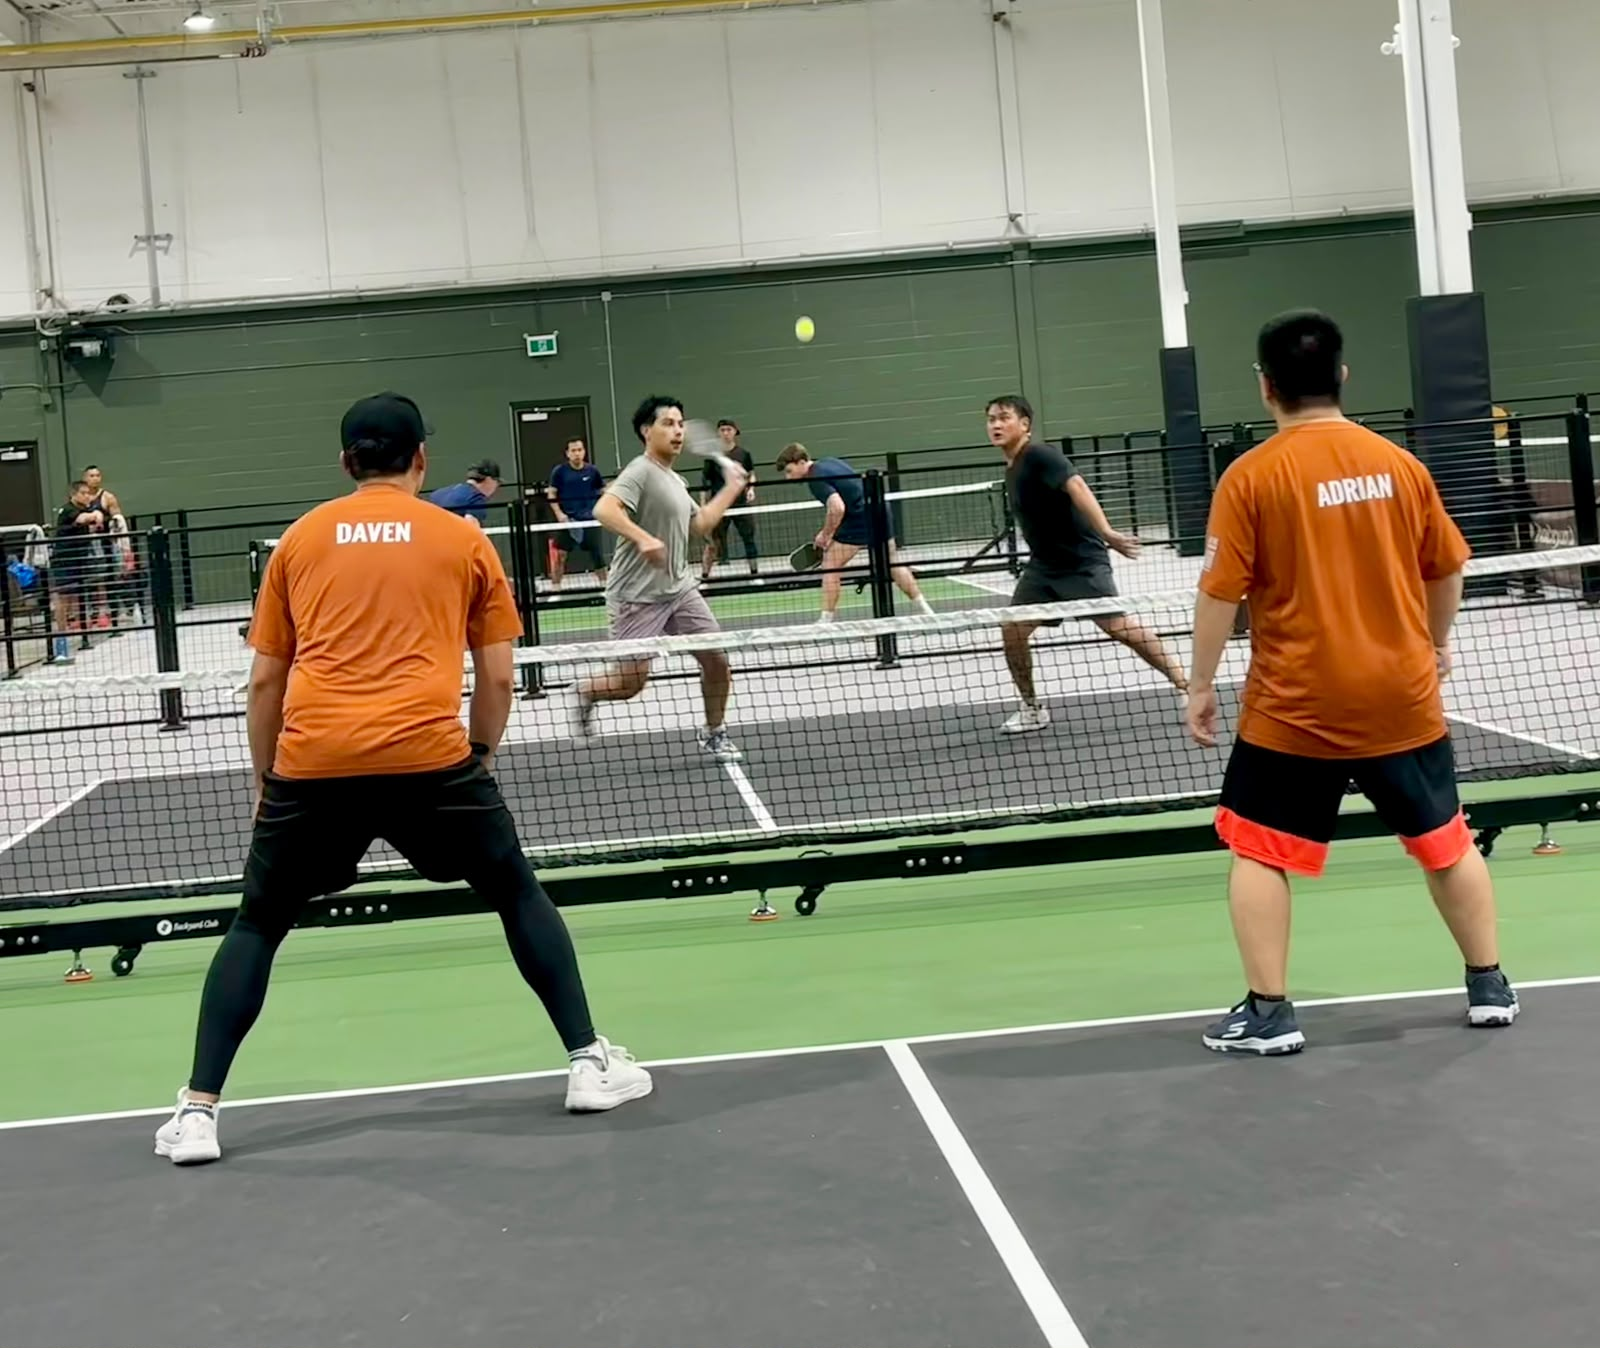
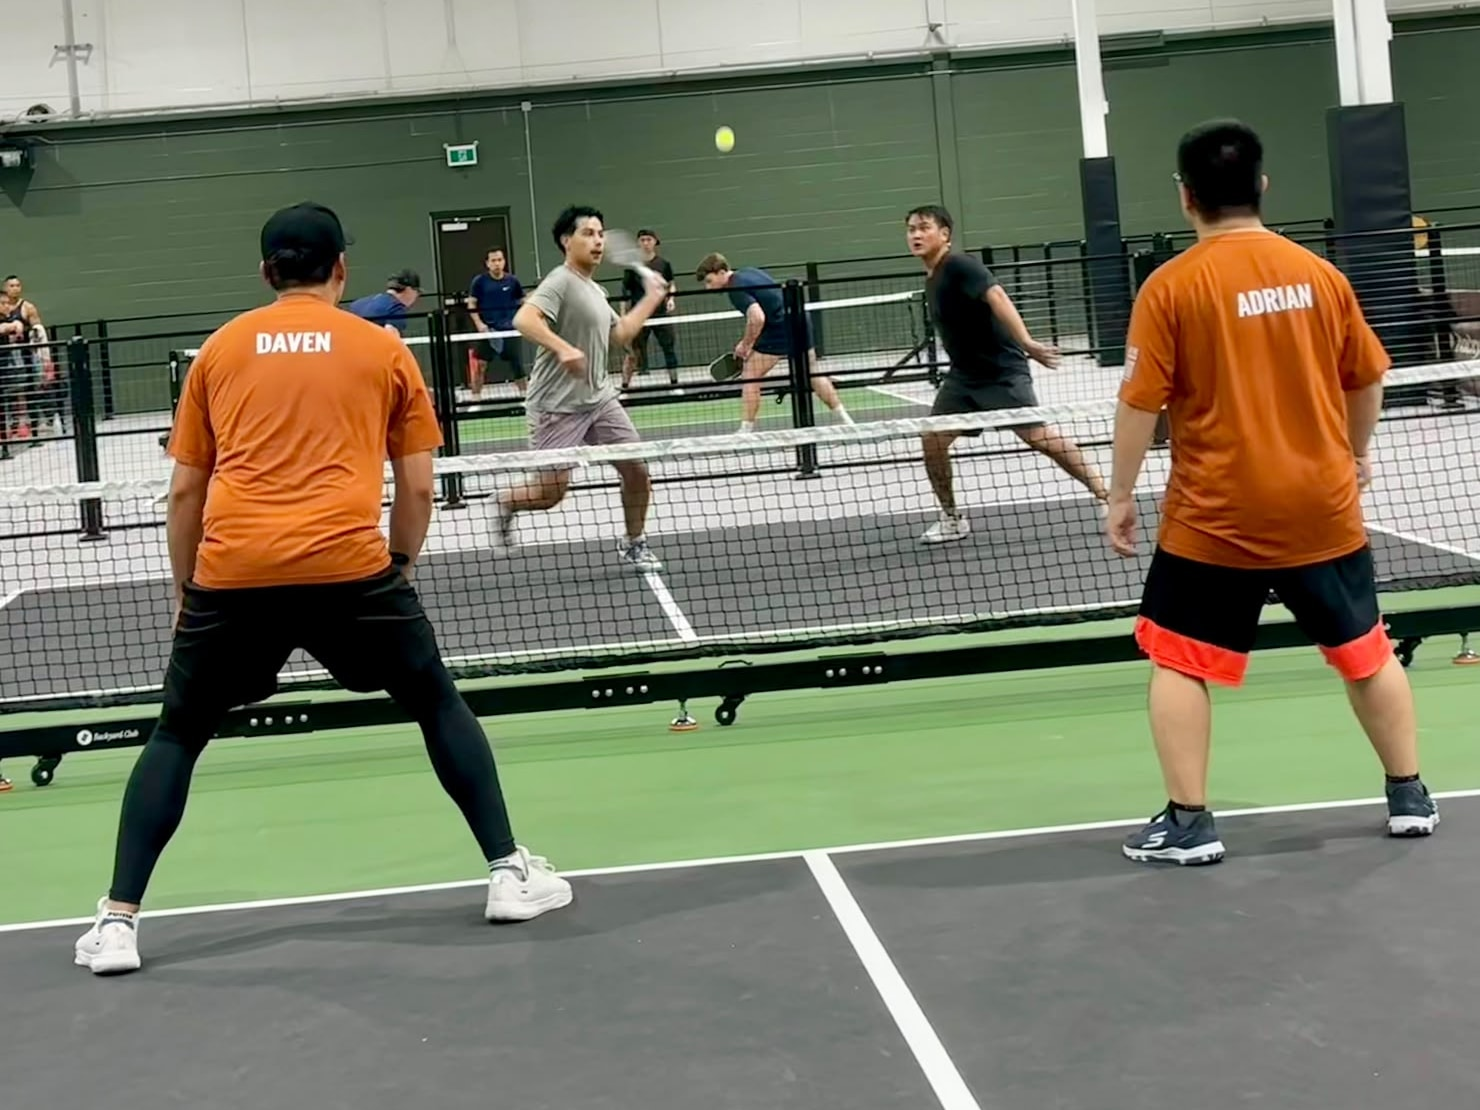
Appearances: header photo of both hosts mid-rally (#566)
* Appearances: header photo of both hosts from behind mid-rally

Uses the PageHead media slot (added for Gear) with a 4:3 crop of
adrian-dav-backs-rally.jpg; the original is kept as -uncropped.

* Screenshots: Appearances header photo

---------

diff --git a/src/app/appearances/page.tsx b/src/app/appearances/page.tsx
@@ -5,6 +5,7 @@ import { nextConfirmedAppearance, splitAppearances } from "@/lib/appearances";
 import { pageMetadata } from "@/lib/metadata";
 import { buildAppearancesJsonLd, toJsonLdScript } from "@/lib/structured-data";
 import { PageHead } from "@/components/bx/page-head";
+import { Picture } from "@/components/picture";
 import { UpNext } from "./sections/up-next";
 import { UpcomingAppearances } from "./sections/upcoming-appearances";
 import { PastAppearances } from "./sections/past-appearances";
@@ -45,6 +46,19 @@ export default function AppearancesPage() {
         // in Ontario.
         meta={upcoming.length > 0 ? `${upcoming.length} coming up` : undefined}
         lead="The tournaments we're actually signed up for, with the brackets we're in. If you're playing one of these, come say hi between matches."
+        // Shot from behind, names on their backs: the view from the rail,
+        // and exactly what someone looking for them at a venue will see.
+        media={
+          <figure className="bx-tile aspect-4/3">
+            <Picture
+              src="/pictures/adrian-dav-backs-rally.jpg"
+              alt="Daven and Adrian from behind mid-rally, their names on the backs of their Juice Bros shirts"
+              sizes="(min-width: 1024px) 30rem, 100vw"
+              fetchPriority="high"
+              className="object-center"
+            />
+          </figure>
+        }
       />
 
       {featured && <UpNext appearance={featured} />}

diff --git a/src/lib/image-variants.ts b/src/lib/image-variants.ts
@@ -69,6 +69,16 @@ export const IMAGE_MANIFEST = {
     widths: [640, 960],
     quality: { avif: 42, webp: 60 },
   },
+  "/pictures/adrian-dav-backs-rally.jpg": {
+    width: 1480,
+    height: 1110,
+    // The Appearances header photo: 30rem beside the copy at lg, the full
+    // column below it. Pre-cropped to 4:3 from a 1600px WhatsApp export
+    // (the original is `adrian-dav-backs-rally-uncropped.jpg`). Busy,
+    // phone-compressed shot, so quality sits under the camera original's.
+    widths: [640, 960],
+    quality: { avif: 42, webp: 60 },
+  },
   "/pictures/adrian-dav-at-net-crowd.jpg": {
     width: 700,
     height: 600,
